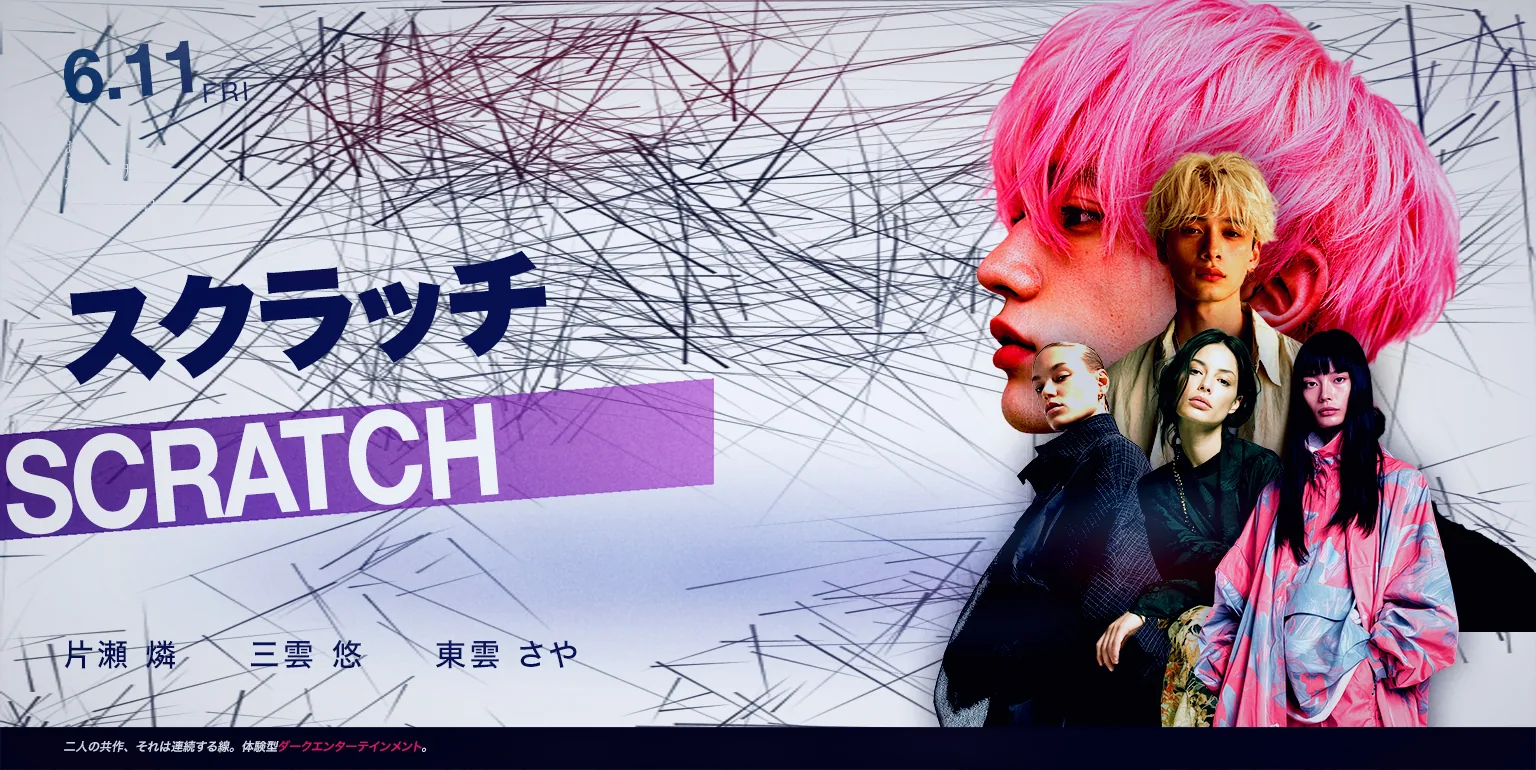
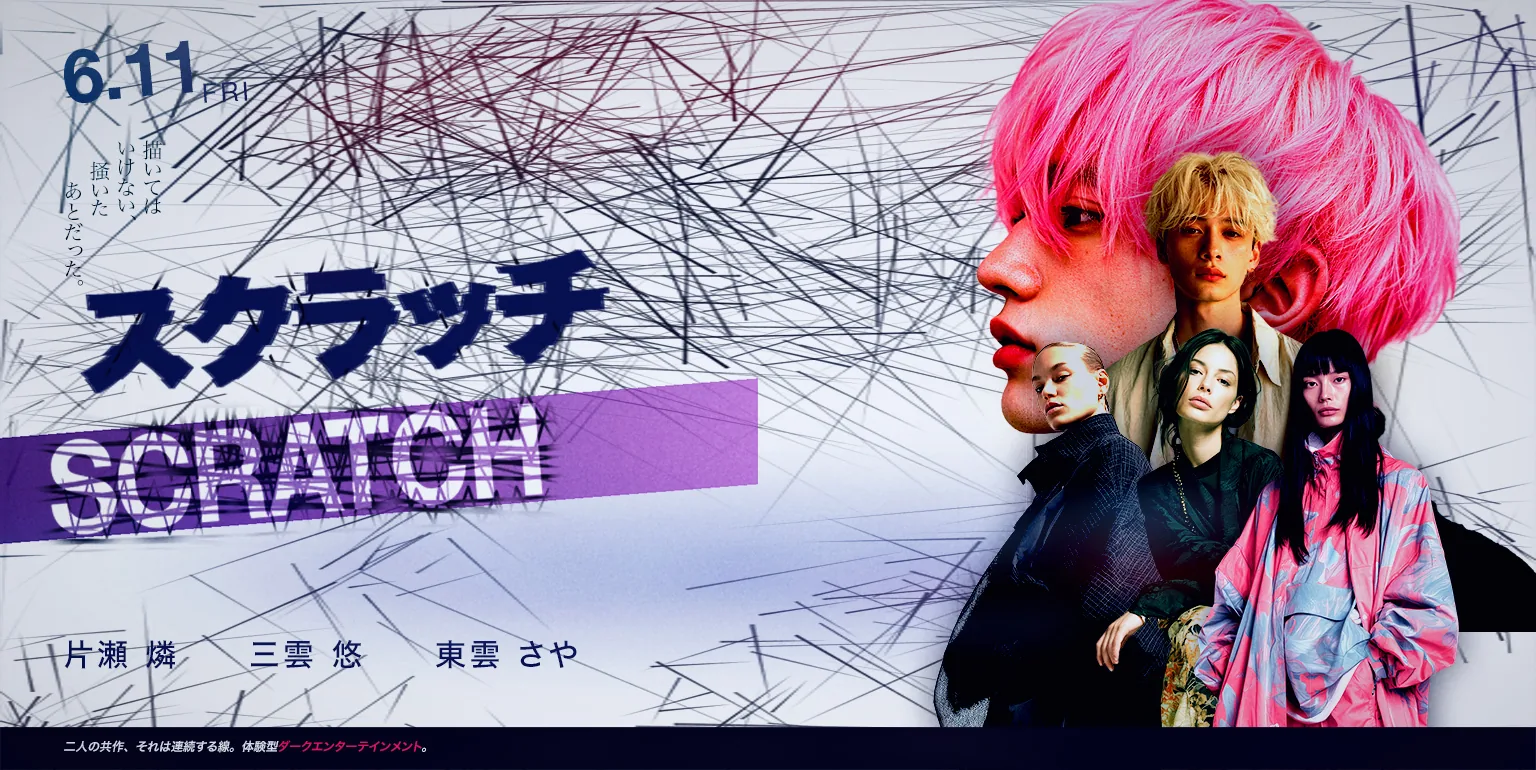
見本ページを「見本」にまとめる（バナー・SNSはその中の1つ）／検索に出さない設定を強める／スクラッチを題字をスクラッチ版に戻す
Claude-Session: https://claude.ai/code/session_01WRUinWNzjeoFjaY3YuSMWg

Changed region(s): [[0.0, 0.3117, 0.5, 0.7169], [0.0312, 0.187, 0.125, 0.3117]]

diff --git a/works-banner/index.html b/works-banner/index.html
@@ -4,7 +4,8 @@
   <meta charset="UTF-8">
   <meta name="viewport" content="width=device-width, initial-scale=1.0">
   <title>Private | 木下スタジオ</title>
-  <meta name="robots" content="noindex, nofollow, noarchive">
+  <meta name="robots" content="noindex, nofollow, noarchive, noimageindex">
+  <meta name="googlebot" content="noindex, nofollow, noarchive, noimageindex">
   <link rel="icon" type="image/x-icon" href="/favicon.ico">
   <link rel="preconnect" href="https://fonts.googleapis.com">
   <link href="https://fonts.googleapis.com/css2?family=Zen+Kaku+Gothic+New:wght@300;400;500&family=Space+Mono&display=swap" rel="stylesheet">
@@ -44,6 +45,9 @@
     .specs { display: flex; flex-wrap: wrap; gap: 8px 24px; margin-top: 18px; font-size: 12.5px; color: var(--ink-light); }
     .specs b { font-weight: 500; color: var(--ink); }
 
+    .group { margin-top: 56px; padding-top: 32px; border-top: 1px solid var(--ink); }
+    .group h2 { font-size: 20px; font-weight: 500; letter-spacing: .02em; }
+    .group > p { font-size: 13.5px; color: var(--ink-light); max-width: 46em; margin-top: 10px; }
     .filter { display: flex; gap: 0; margin: 40px 0 8px; border: 1px solid var(--ink); width: max-content; max-width: 100%; }
     .filter button { font: inherit; font-size: 12.5px; padding: 9px 16px; border: 0; background: transparent; color: var(--ink); cursor: pointer; white-space: nowrap; }
     .filter button + button { border-left: 1px solid var(--ink); }
@@ -92,7 +96,7 @@
 <main class="page" id="page"></main>
 
 <script>
[2 lines of base64/hex data omitted]
 
 const b64 = s => Uint8Array.from(atob(s), c => c.charCodeAt(0));
 async function decrypt(pw) {
